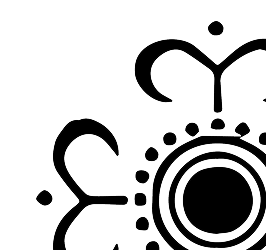
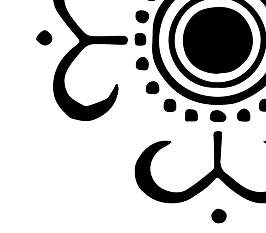
add corner flowers to bg 3 in preview section

diff --git a/css/home/preview.css b/css/home/preview.css
@@ -49,6 +49,60 @@
     filter: blur(2px);
 }
 
+.flower-prev-body {
+    position: absolute;
+    width: 100%;
+    height: 100%;
+    display: flex;
+    flex-direction: row;
+}
+
+.flower-prev {
+    position: relative;
+    top: 0;
+    bottom: 0;
+    background-repeat: no-repeat;
+    background-size: 100% 100%;
+    display: block;
+    width: 200px;
+    height: 175px;
+    max-width: 200px;
+    max-height: 175px;
+    opacity: 0.5;
+}
+
+#flower-prev-tl {
+    background-image: url(../../assets/home/flower-prev/flower-prev-tl.png);
+}
+
+#flower-prev-tr {
+    position: absolute;
+    background-image: url(../../assets/home/flower-prev/flower-prev-tr.png);
+    left: auto;
+    bottom: auto;
+    right: 0;
+    top: 0;
+}
+
+#flower-prev-bl {
+    position: absolute;
+    background-image: url(../../assets/home/flower-prev/flower-prev-bl.png);
+    left: 0;
+    bottom: 0;
+    right: auto;
+    top: auto;
+}
+
+#flower-prev-br {
+    position: absolute;
+    background-image: url(../../assets/home/flower-prev/flower-prev-br.png);
+    left: auto;
+    bottom: 0;
+    right: 0;
+    top: auto;
+}
+
+
 .preview-1-text-body, .preview-2-text-body  {
     position: relative;
     max-width: 30%;
@@ -90,7 +144,6 @@
     height: 394px;
     max-width:336px;
     max-height:662px;
-    
 }
 
 #preview-img-4 {

diff --git a/index.html b/index.html
@@ -62,7 +62,12 @@
                 <div class="preview-bg-body">
                     <div class="preview-section-bg"></div>
                     <div class="preview-bg-3">
-
+                        <div class="flower-prev-body">
+                            <div class="flower-prev" id="flower-prev-tl"></div>
+                            <div class="flower-prev" id="flower-prev-tr"></div>
+                            <div class="flower-prev" id="flower-prev-bl"></div>
+                            <div class="flower-prev" id="flower-prev-br"></div>
+                        </div>
                     </div>
 
                     <div class="preview-1-body">
